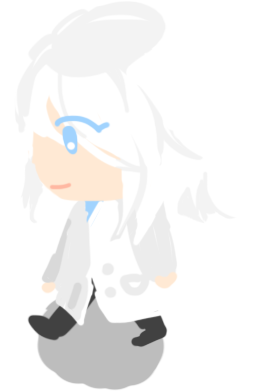
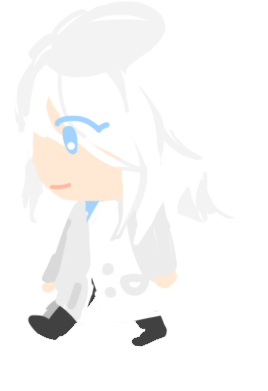
player walking in animation

Changed region(s): [[0.1194, 0.7673, 0.6269, 1.0]]

diff --git a/Assets/Scripts/TimeMap.cs b/Assets/Scripts/TimeMap.cs
@@ -27,6 +27,8 @@ public class TimeMap : MonoBehaviour {
 	public ClickableTile clickableTile;
 	public Helper helper;
 
+	public bool hasStarted = false;
+
 	public List<GameObject> monsterList = new List<GameObject>();
 
     // Game settings
@@ -49,6 +51,8 @@ public class TimeMap : MonoBehaviour {
 	static float multiplier = 2/3f;
 	
 	int timesCombined = 0;
+	int initialX = 0;
+	int initialY = 5;
 
 	void Start ()
 	{
@@ -61,8 +65,11 @@ public class TimeMap : MonoBehaviour {
 		selectedUnit.GetComponent<Unit>().carrying = false;
 		selectedUnit.GetComponent<Unit>().tileX = 4;
 		selectedUnit.GetComponent<Unit>().tileY = 4;
-		selectedMonster.GetComponent<Monsters>().tileX = Random.Range(0,6);
-		selectedMonster.GetComponent<Monsters>().tileY = Random.Range(0,6);
+		initialX = Random.Range (0, 6);
+		//initialY = Random.Range (0, 6);
+		StartCoroutine ("unitWalkIn");
+		//selectedMonster.GetComponent<Monsters>().tileX = ;
+		//selectedMonster.GetComponent<Monsters>().tileY = Random.Range(0,6);
 
 		for (int i = 0; i < mapSizeX; i++) {
 			for (int j = 0; j < mapSizeY; j++) {
@@ -71,13 +78,27 @@ public class TimeMap : MonoBehaviour {
 		}
 		selectedMonster.transform.position = TileCoordToWorldCoord(selectedMonster.GetComponent<Monsters>().tileX, selectedMonster.GetComponent<Monsters>().tileY);
 
-		SpawnMon();
-		SpawnMon();
-		counterIncrease();
-
 		GenerateMapData();
 		GenerateMapVisual();
 	}
+
+	IEnumerator unitWalkIn() {
+		selectedUnit.GetComponent<Unit>().tileX = initialX;
+		selectedUnit.GetComponent<Unit>().tileY = initialY;
+		selectedUnit.transform.position = TileCoordToWorldCoord(initialX, initialY+2);
+		yield return new WaitForSeconds (0.5f);
+		selectedUnit.transform.position = TileCoordToWorldCoord(initialX, initialY+1);
+		selectedUnit.GetComponent<Unit>().PlaySound();
+		yield return new WaitForSeconds (0.5f);
+		selectedUnit.transform.position = TileCoordToWorldCoord(initialX, initialY);
+		selectedUnit.GetComponent<Unit>().PlaySound();
+		yield return new WaitForSeconds (0.5f);
+		SpawnMon();
+		SpawnMon();
+		counterIncrease();
+		hasStarted = true;
+	}
+
 	void GenerateMapData() {
 		// Allocate our map tiles
 		tiles = new int[mapSizeX, mapSizeY];

diff --git a/Assets/Scripts/Unit.cs b/Assets/Scripts/Unit.cs
@@ -25,9 +25,13 @@ public class Unit : MonoBehaviour {
 		source = GetComponent<AudioSource> ();
 	}
 
+	public void PlaySound() {
+		source.PlayOneShot (moveSound, 1);
+	}
+
 	void Update() {
 		var child = this.gameObject.transform.GetChild (0);
-		if(!map.gameOver) {
+		if(map.hasStarted && !map.gameOver) {
             if (Input.GetKeyDown(KeyCode.LeftArrow)) {
                 child.GetComponent<SpriteRenderer> ().sprite = unitSpriteLeft;
                 map.MoveSelectedUnitTo(Convert.ToInt32(Math.Max(0, transform.position.x - 1)), Convert.ToInt32(transform.position.y));
